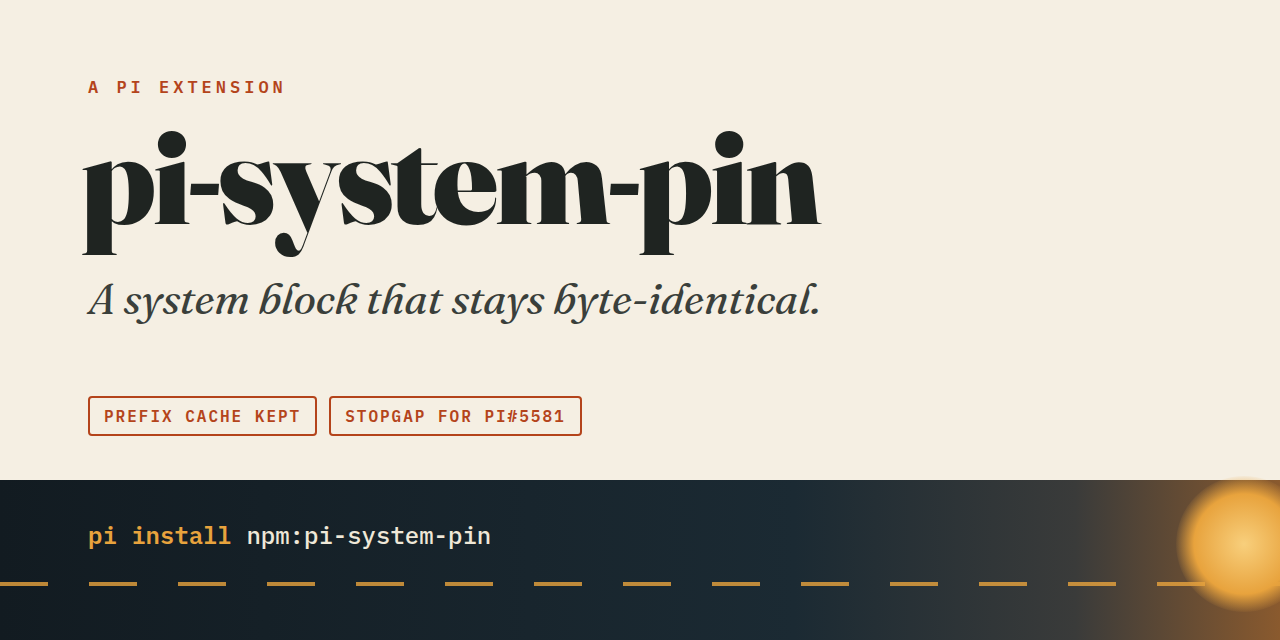
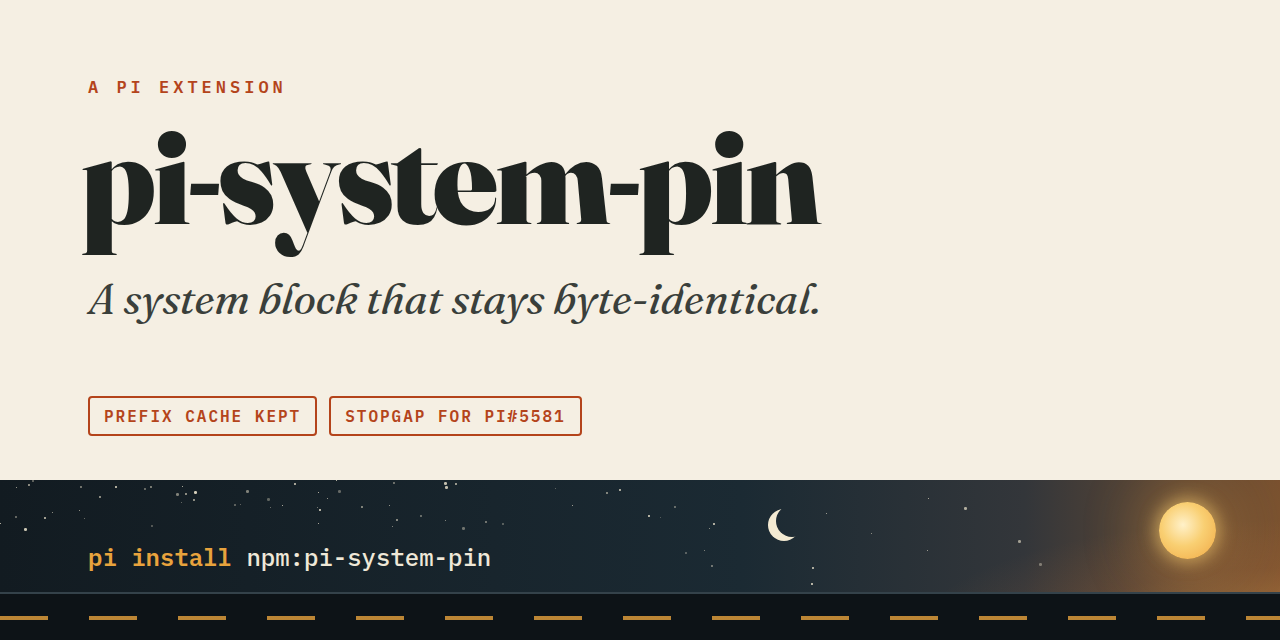
README: why it exists, with an infographic
The README opens with the infographic, what the extension does in one line,
the install command, and a "Why" section: the problem it solves and what
each alternative costs. The infographic replaces the plain card as the
package's pi.image, and the social preview gets the night sky.

Changed region(s): [[0.0, 0.75, 1.0, 1.0], [0.5938, 0.8125, 0.625, 0.8438]]

diff --git a/README.md b/README.md
@@ -1,7 +1,17 @@
 # pi-system-pin
 
-**A stopgap for [pi#5581](https://github.com/earendil-works/pi/issues/5581): it keeps a request's system block
-byte-identical when an extension's custom message starts a run. Uninstall it once pi fixes that issue.**
+![pi-system-pin: four requests in one session; without it the request head changes when a background task's run drops the extensions' sections and again when the next prompt restores them, each time re-reading the whole conversation; with it the head never changes and every request reuses the cached prefix](https://raw.githubusercontent.com/lobo235/pi-system-pin/main/.github/assets/infographic.png)
+
+**The same request head, whatever started the run.** A stopgap for
+[pi#5581](https://github.com/earendil-works/pi/issues/5581): it keeps a request's system block byte-identical
+when an extension's message starts a run, so a prefix cache does not read the whole conversation again. Uninstall
+it once pi fixes that issue.
+
+```bash
+pi install npm:pi-system-pin
+```
+
+## Why pi-system-pin
 
 In [pi](https://github.com/earendil-works/pi), extensions shape the system prompt in the `before_agent_start`
 event, and pi fires that event only for a user prompt. A run started by an extension's custom message
@@ -10,6 +20,10 @@ drop out for the rest of that run and come back with the next user prompt. On a 
 prompt as one leading message, each of those changes rewrites the head of the request, and a provider that
 caches prompt prefixes has to read the whole conversation again, twice per such run. pi-system-pin holds those
 fallback changes back, so the system block stays the same whatever started the run.
+
+Those runs are common in a busy session: a background task reporting back, a message from another agent, a
+scheduled wake-up, a review loop handing back its findings. On a self-hosted model with prefix caching, each
+one can cost two full re-reads of a conversation that may be tens of thousands of tokens long.
 
 It is a workaround, not a feature. When pi fixes the flaw upstream, remove it (see
 [When pi fixes pi#5581](#when-pi-fixes-pi5581)); its tests are built to tell you when that has happened.

diff --git a/CONTRIBUTING.md b/CONTRIBUTING.md
@@ -75,7 +75,7 @@ recording it. Any other failure opens a failure issue.
 
 **Where a release shows up.** The [pi package gallery](https://pi.dev/packages) lists the package from npm within
 minutes of a publish: its card shows the `package.json` `description` and the `pi.image` card
-(`.github/assets/card.png`, pinned to the release tag), and its page renders the README inside the published
+(`.github/assets/infographic.png`, pinned to the release tag), and its page renders the README inside the published
 tarball. Editing either on GitHub changes nothing there until the next release, and a README link to a file the
 package does not ship must be an absolute GitHub URL. After `publish`, `release.yml` creates the GitHub Release
 for the tag from its `CHANGELOG.md` section; for the manual first publish, run
